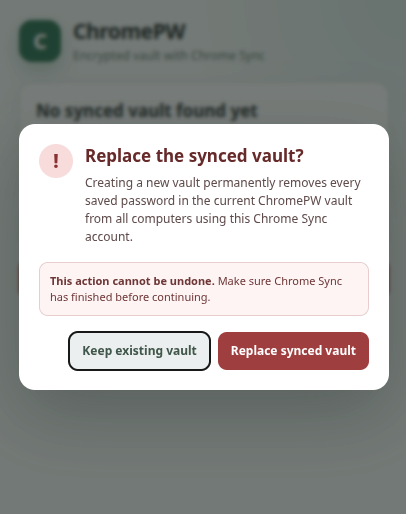
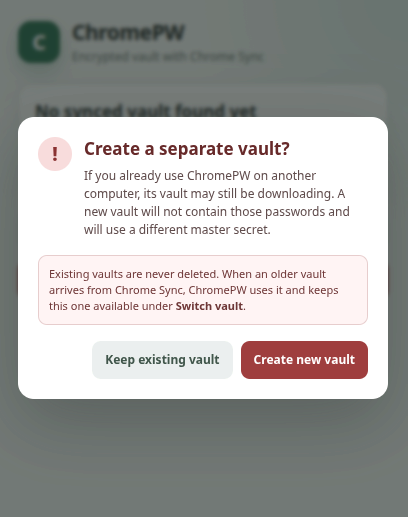
update new screenshot

Changed region(s): [[0.0296, 0.2179, 0.9458, 0.7782], [0.9458, 0.249, 0.9754, 0.7471], [0.1478, 0.6537, 0.1773, 0.716]]

diff --git a/popup.js b/popup.js
@@ -79,7 +79,17 @@ const elements = Object.fromEntries(
     "current-secret",
     "new-secret",
     "new-secret-confirm",
+    "reset-vault-warning",
+    "reset-vault-form",
+    "reset-vault-summary",
+    "reset-confirm-input",
+    "cancel-reset-vault",
+    "confirm-reset-vault",
     "prune-vaults-section",
+    "prune-vaults-warning",
+    "prune-vaults-summary",
+    "cancel-prune-vaults",
+    "confirm-prune-vaults",
     "prune-secret",
     "prune-vaults",
     "reset-vault"
@@ -312,6 +322,74 @@ function formatVaultOption({ config, count }) {
   const countText = count === 1 ? "1 credential" : `${count} credentials`;
   const current = config.vaultId === vaultConfig?.vaultId ? " (in use)" : "";
   return `Created ${date} — ${countText}${current}`;
+}
+
+function plural(count, singular, pluralForm = `${singular}s`) {
+  return `${count} ${count === 1 ? singular : pluralForm}`;
+}
+
+function confirmPruneVaults(vaultCount, credentialCount) {
+  const dialog = elements["prune-vaults-warning"];
+  elements["prune-vaults-summary"].textContent =
+    `${plural(vaultCount, "vault")} and ${plural(credentialCount, "saved credential")} ` +
+    "will be permanently removed from every computer using this Chrome Sync account.";
+  return new Promise((resolve) => {
+    const finish = (confirmed) => {
+      elements["confirm-prune-vaults"].removeEventListener("click", onConfirm);
+      elements["cancel-prune-vaults"].removeEventListener("click", onCancel);
+      dialog.removeEventListener("cancel", onCancel);
+      dialog.close();
+      resolve(confirmed);
+    };
+    const onConfirm = () => finish(true);
+    const onCancel = () => finish(false);
+    elements["confirm-prune-vaults"].addEventListener("click", onConfirm);
+    elements["cancel-prune-vaults"].addEventListener("click", onCancel);
+    dialog.addEventListener("cancel", onCancel);
+    dialog.showModal();
+    elements["cancel-prune-vaults"].focus();
+  });
+}
+
+const RESET_CONFIRMATION = "RESET";
+
+function confirmResetVault(vaultCount, credentialCount) {
+  const dialog = elements["reset-vault-warning"];
+  const form = elements["reset-vault-form"];
+  const input = elements["reset-confirm-input"];
+  const confirmButton = elements["confirm-reset-vault"];
+  elements["reset-vault-summary"].textContent =
+    `${plural(vaultCount, "vault")} and ${plural(credentialCount, "saved credential")} ` +
+    "will be permanently removed from every computer using this Chrome Sync account.";
+  input.value = "";
+  confirmButton.disabled = true;
+
+  return new Promise((resolve) => {
+    const matches = () => input.value.trim() === RESET_CONFIRMATION;
+    const onInput = () => {
+      confirmButton.disabled = !matches();
+    };
+    const finish = (confirmed) => {
+      input.removeEventListener("input", onInput);
+      form.removeEventListener("submit", onSubmit);
+      elements["cancel-reset-vault"].removeEventListener("click", onCancel);
+      dialog.removeEventListener("cancel", onCancel);
+      input.value = "";
+      dialog.close();
+      resolve(confirmed);
+    };
+    const onSubmit = (event) => {
+      event.preventDefault();
+      if (matches()) finish(true);
+    };
+    const onCancel = () => finish(false);
+    input.addEventListener("input", onInput);
+    form.addEventListener("submit", onSubmit);
+    elements["cancel-reset-vault"].addEventListener("click", onCancel);
+    dialog.addEventListener("cancel", onCancel);
+    dialog.showModal();
+    input.focus();
+  });
 }
 
 function renderVaultSwitcher() {
@@ -700,29 +778,24 @@ elements["prune-vaults"].addEventListener("click", async () => {
     (vault) => vault.config.vaultId !== vaultConfig.vaultId
   );
   const otherCount = others.reduce((total, vault) => total + vault.count, 0);
-  if (
-    !confirm(
-      `Permanently delete ${others.length} other vault(s) and their ${otherCount} credential(s) from every computer?`
-    )
-  ) {
-    return;
-  }
 
   try {
     await unlockVault(secret, vaultConfig);
+    if (!(await confirmPruneVaults(others.length, otherCount))) return;
     await selectSyncedVault(vaultConfig.vaultId);
     await removeOtherSyncedVaults(vaultConfig);
     elements["prune-secret"].value = "";
     await loadState();
-    showMessage("Other vaults deleted.");
+    showMessage(`${plural(others.length, "vault")} deleted.`);
   } catch (error) {
     reportError(error);
   }
 });
 
 elements["reset-vault"].addEventListener("click", async () => {
-  const confirmation = prompt('Type "RESET" to permanently delete the vault.');
-  if (confirmation !== "RESET") return;
+  const vaultCount = Math.max(syncedVaults.length, 1);
+  const credentialCount = syncedVaults.reduce((total, vault) => total + vault.count, 0);
+  if (!(await confirmResetVault(vaultCount, credentialCount))) return;
 
   try {
     const stored = await chrome.storage.sync.get(null);
@@ -736,7 +809,7 @@ elements["reset-vault"].addEventListener("click", async () => {
     hideRevealedPassword();
     resetEditor();
     render();
-    showMessage("Vault reset. You can create a new one.");
+    showMessage("ChromePW was reset. You can now create a new vault.");
   } catch (error) {
     reportError(error);
   }

diff --git a/popup.html b/popup.html
@@ -35,6 +35,44 @@
         </div>
       </dialog>
 
+      <dialog id="prune-vaults-warning" class="warning-dialog" aria-labelledby="prune-vaults-warning-title">
+        <div class="warning-dialog-content">
+          <div class="warning-heading">
+            <span class="warning-icon" aria-hidden="true">!</span>
+            <div>
+              <h2 id="prune-vaults-warning-title">Delete other vaults?</h2>
+              <p id="prune-vaults-summary"></p>
+            </div>
+          </div>
+          <p class="warning-note"><strong>This cannot be undone.</strong> The vault currently in use and its credentials are kept.</p>
+          <div class="warning-actions">
+            <button id="cancel-prune-vaults" class="ghost" type="button">Cancel</button>
+            <button id="confirm-prune-vaults" class="danger" type="button">Delete permanently</button>
+          </div>
+        </div>
+      </dialog>
+
+      <dialog id="reset-vault-warning" class="warning-dialog" aria-labelledby="reset-vault-warning-title">
+        <form id="reset-vault-form" class="warning-dialog-content">
+          <div class="warning-heading">
+            <span class="warning-icon" aria-hidden="true">!</span>
+            <div>
+              <h2 id="reset-vault-warning-title">Reset ChromePW?</h2>
+              <p id="reset-vault-summary"></p>
+            </div>
+          </div>
+          <p class="warning-note"><strong>This cannot be undone.</strong> Use this only if you have lost your master secret or want to start over.</p>
+          <label class="confirm-label">
+            <span>Type <strong>RESET</strong> to confirm</span>
+            <input id="reset-confirm-input" type="text" autocomplete="off" autocapitalize="characters" spellcheck="false" required>
+          </label>
+          <div class="warning-actions">
+            <button id="cancel-reset-vault" class="ghost" type="button">Cancel</button>
+            <button id="confirm-reset-vault" class="danger" type="submit" disabled>Reset permanently</button>
+          </div>
+        </form>
+      </dialog>
+
       <section id="setup-view" hidden>
         <div class="intro">
           <h2>No synced vault found yet</h2>

diff --git a/popup.css b/popup.css
@@ -277,6 +277,10 @@ button {
   line-height: 1.45;
 }
 
+.confirm-label {
+  margin-bottom: 16px;
+}
+
 .warning-actions {
   display: flex;
   justify-content: flex-end;

diff --git a/README.md b/README.md
@@ -42,7 +42,7 @@ If you are certain that no existing vault should be used, select **Create a new 
 
 Creating a vault is additive: it never deletes or hides another vault. If an older vault arrives from Chrome Sync afterwards, ChromePW uses the older vault and lists both under **Switch vault**. Unwanted vaults can be removed explicitly with **Vault settings → Delete other vaults**.
 
-![ChromePW warning before replacing the synchronized vault](screenshots/replace-vault-warning.png)
+![ChromePW confirmation before creating a separate vault](screenshots/replace-vault-warning.png)
 
 After confirming, enter and confirm a master secret of at least 12 characters. The master secret is never saved and cannot be recovered.
 
